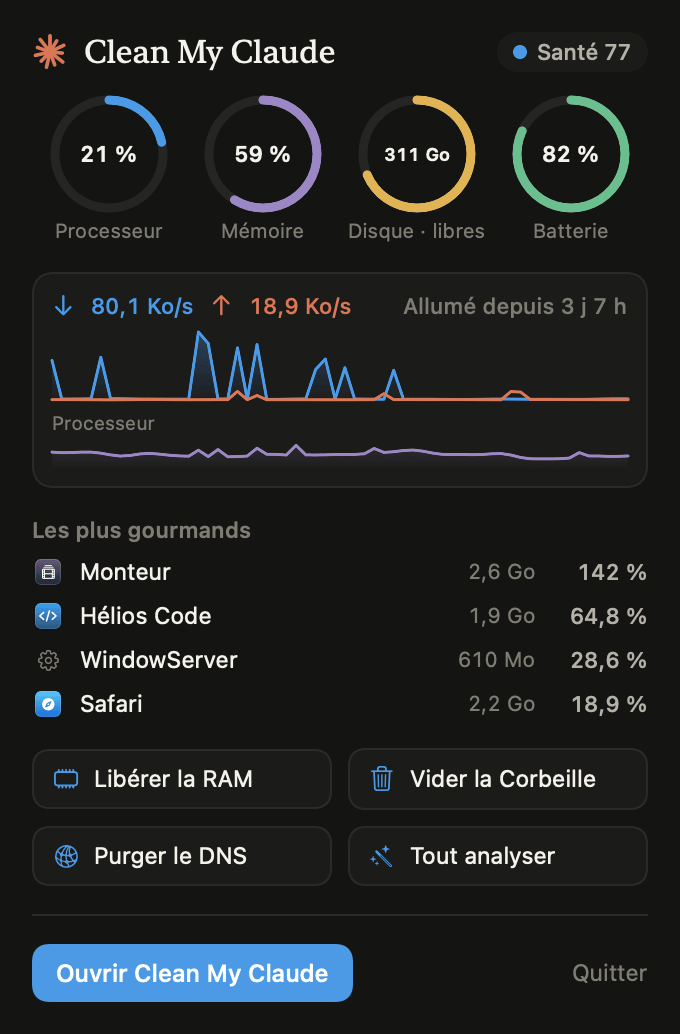
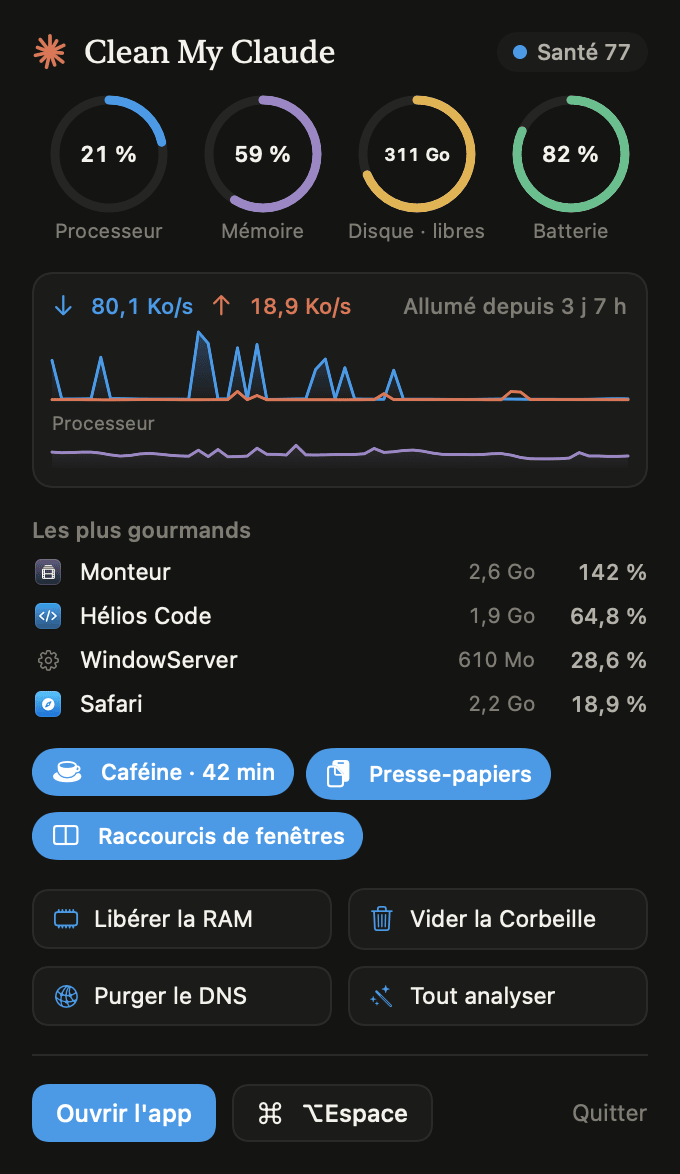
README réécrit pour la 0.2 et captures des nouvelles sections

diff --git a/README.md b/README.md
@@ -4,15 +4,24 @@
 
 <h1 align="center">Clean My Claude</h1>
 
-<p align="center"><b>« Claude, nettoie mon Mac. »</b><br>
-Un utilitaire d'entretien natif pour macOS, dans l'esprit de CleanMyMac, construit avec Claude.<br>
-Libre, gratuit, et tout se passe en local.</p>
+<p align="center"><b>« Claude, nettoie mon Mac. » Et tant qu'à faire, tout le reste.</b><br>
+L'app Mac tout-en-un, native et sans dépendance : entretien façon CleanMyMac, lanceur façon Raycast,<br>
+convertisseur de fichiers, outils du quotidien, mises à jour, réseau, fenêtres, automatisations et un assistant Claude.<br>
+Libre, gratuite, et rien ne sort de ton Mac sans ton clic.</p>
 
 <p align="center">
-  <img src="docs/screenshots/dashboard.png" alt="Tableau de bord : score de santé, stockage, mémoire, processeur, batterie, résultats de l'analyse intelligente, activité en direct et conseils" width="900">
+  <img src="docs/screenshots/dashboard.png" alt="Tableau de bord : score de santé, stockage, mémoire, processeur, batterie, analyse intelligente, activité en direct, conseils et état de chaque outil" width="900">
 </p>
 
 <table>
+  <tr>
+    <th>Lanceur (⌥Espace)</th>
+    <th>Convertisseur</th>
+  </tr>
+  <tr>
+    <td valign="top" align="center"><img src="docs/screenshots/launcher-panel.png" alt="Lanceur : la recherche « pdf » propose les actions du convertisseur et un fichier de l'historique du presse-papiers"></td>
+    <td valign="top"><img src="docs/screenshots/converter.png" alt="Convertisseur : photos HEIC à convertir en JPEG sans localisation, vidéos en cours de compression"></td>
+  </tr>
   <tr>
     <th>Nettoyage du système</th>
     <th>Protection et confidentialité</th>
@@ -22,52 +31,115 @@ Libre, gratuit, et tout se passe en local.</p>
     <td valign="top"><img src="docs/screenshots/protection.png" alt="Protection : bilan de sécurité de macOS (FileVault, coupe-feu, Gatekeeper, SIP, mises à jour…)"></td>
   </tr>
   <tr>
+    <th>Mises à jour</th>
+    <th>Assistant Claude</th>
+  </tr>
+  <tr>
+    <td valign="top"><img src="docs/screenshots/updates.png" alt="Mises à jour : paquets Homebrew, apps Sparkle, App Store et macOS, avec le journal d'une mise à jour en direct"></td>
+    <td valign="top"><img src="docs/screenshots/assistant.png" alt="Assistant : Claude explique pourquoi le Mac rame et propose deux actions à exécuter d'un clic"></td>
+  </tr>
+  <tr>
+    <th>Boîte à outils</th>
+    <th>Presse-papiers</th>
+  </tr>
+  <tr>
+    <td valign="top"><img src="docs/screenshots/toolbox.png" alt="Boîte à outils : sélecteur de couleur avec formats HEX, RGB, HSL, SwiftUI et nuances"></td>
+    <td valign="top"><img src="docs/screenshots/clipboard.png" alt="Presse-papiers : historique de textes, images et fichiers avec épingles et recherche"></td>
+  </tr>
+  <tr>
+    <th>Réseau</th>
+    <th>Fenêtres</th>
+  </tr>
+  <tr>
+    <td valign="top"><img src="docs/screenshots/network.png" alt="Réseau : Wi-Fi, adresses, test de débit et latence"></td>
+    <td valign="top"><img src="docs/screenshots/windows.png" alt="Fenêtres : moitiés, quarts, tiers et écrans, chacun avec son raccourci modifiable"></td>
+  </tr>
+  <tr>
+    <th>Automatisations</th>
     <th>Applications</th>
-    <th>Espace de stockage</th>
   </tr>
   <tr>
+    <td valign="top"><img src="docs/screenshots/automation.png" alt="Automatisations : nettoyage planifié, purge de la Corbeille, rangement de Téléchargements et historique de santé"></td>
     <td valign="top"><img src="docs/screenshots/apps.png" alt="Applications : inventaire avec taille, version, dernière ouverture, apps Intel et apps de l'App Store"></td>
-    <td valign="top"><img src="docs/screenshots/storage.png" alt="Stockage : carte proportionnelle du dossier personnel et liste de son contenu"></td>
   </tr>
   <tr>
+    <th>Espace de stockage</th>
     <th>Optimisation</th>
-    <th>Menu d'état</th>
   </tr>
   <tr>
+    <td valign="top"><img src="docs/screenshots/storage.png" alt="Stockage : carte proportionnelle du dossier personnel et liste de son contenu"></td>
     <td valign="top"><img src="docs/screenshots/performance.png" alt="Optimisation : jauges du processeur et de la mémoire, courbes en direct et apps les plus gourmandes"></td>
-    <td valign="top" align="center"><img src="docs/screenshots/menubar-panel.png" alt="Menu d'état : panneau de la barre des menus avec processeur, mémoire, disque, batterie, réseau et actions express" width="300"></td>
+  </tr>
+  <tr>
+    <th colspan="2">Menu d'état</th>
+  </tr>
+  <tr>
+    <td colspan="2" align="center"><img src="docs/screenshots/menubar-panel.png" alt="Menu d'état : processeur, mémoire, disque, batterie, réseau, apps gourmandes, interrupteurs Caféine, presse-papiers et fenêtres, actions express" width="300"></td>
   </tr>
 </table>
 
-<sub>Captures réalisées avec des données fictives (mode `--demo`) : ni les apps, ni les fichiers, ni les processus montrés n'existent.</sub>
+<sub>Captures réalisées avec des données fictives (mode `--demo`) : ni les apps, ni les fichiers, ni les personnes montrés n'existent.</sub>
 
-> *English: a native macOS maintenance utility (cleanup, security audit, startup items, app uninstaller, disk map, live menu bar monitor). The interface is in French.*
+> *English: an all-in-one native macOS app: maintenance (cleanup, security audit, startup items, uninstaller, disk map), a Raycast-like launcher, a file converter, everyday tools, clipboard history, updates, network tools, window management, automations and a Claude assistant. The interface is in French.*
 
-> Projet personnel et non officiel, sans lien avec Anthropic ni avec MacPaw. « Claude » est une marque d'Anthropic, « CleanMyMac » une marque de MacPaw.
+> Projet personnel et non officiel, sans lien avec Anthropic, MacPaw ni Raycast. « Claude » est une marque d'Anthropic, « CleanMyMac » une marque de MacPaw.
 
 ## Ce que fait l'app
 
+### Entretien
+
 | Section | Contenu |
 | --- | --- |
-| **Tableau de bord** | Score de santé sur 100, stockage, mémoire, processeur, batterie (santé, cycles), activité en direct, **analyse intelligente** qui passe tout en revue en une minute, et des conseils classés par utilité |
+| **Tableau de bord** | Score de santé sur 100, stockage, mémoire, processeur, batterie (santé, cycles), activité en direct, **analyse intelligente** qui passe tout en revue en une minute, conseils classés par utilité, et l'état de chaque outil |
 | **Nettoyage du système** | Caches d'apps et de macOS, journaux, fichiers temporaires, Xcode (données dérivées, appareils, archives, simulateurs), caches npm / Yarn / pip / Homebrew / CocoaPods / Go / Cargo…, dépendances de **projets endormis** (`node_modules`, `.build`, `Pods`, `target`), caches de l'**app Claude** et journaux de **Claude Code**, caches des navigateurs et des apps Electron, Corbeille, pièces jointes Mail, installeurs oubliés, sauvegardes d'iPhone |
-| **Protection et confidentialité** | Bilan de sécurité (FileVault, coupe-feu, Gatekeeper, SIP, XProtect, mises à jour, verrouillage, partages), audit des **éléments persistants** avec vérification des signatures, liste des **autorisations** (caméra, micro, écran, disque…), effacement des **traces** (éléments récents, historique des téléchargements, vignettes, historique du Terminal, historique et cookies des navigateurs) |
-| **Optimisation** | Moniteur temps réel, apps les plus gourmandes (processus d'aide regroupés par app), éléments au démarrage activables / désactivables, tâches de maintenance (mémoire, DNS, Launch Services, Spotlight, instantanés Time Machine…) |
+| **Protection et confidentialité** | Bilan de sécurité (FileVault, coupe-feu, Gatekeeper, SIP, XProtect, mises à jour, verrouillage, partages), audit des **éléments persistants** avec vérification des signatures, liste des **autorisations** (caméra, micro, écran, disque…), effacement des **traces** (éléments récents, téléchargements, vignettes, Terminal, historique et cookies des navigateurs) |
+| **Optimisation** | Moniteur temps réel, apps les plus gourmandes (processus d'aide regroupés par app), éléments au démarrage activables ou désactivables, tâches de maintenance (mémoire, DNS, Launch Services, Spotlight, instantanés Time Machine…) |
+| **Mises à jour** | **Homebrew** en un clic (sortie en direct, annulable ; les paquets qui demandent un mot de passe sont signalés avec la commande à copier), apps **Sparkle** (lecture de leur flux, l'app s'installe elle-même), **App Store** et **macOS** |
 | **Applications** | Inventaire avec taille, version, dernière ouverture, apps **Intel** qui passent par Rosetta, désinstallation **complète** (l'app et tous ses fichiers dans `~/Library`), restes d'apps déjà supprimées |
 | **Espace de stockage** | Carte proportionnelle cliquable de n'importe quel dossier, gros fichiers anciens, **doublons** (comparaison du contenu par SHA-256) |
-| **Menu d'état** | Dans la barre des menus : processeur, mémoire, disque, réseau, batterie, apps gourmandes et actions express. Alertes optionnelles si le disque est presque plein ou la mémoire saturée |
+
+### Outils
+
+| Section | Contenu |
+| --- | --- |
+| **Lanceur** | `⌥Espace` partout, comme Spotlight ou Raycast : apps classées par fréquence, fichiers, **calculatrice** (virgule française acceptée), **unités** (`10 km en miles`, `5 Go en Mo`, `100 °F en °C`), heure dans le monde, veille, verrouillage, mode sombre, éjection des disques, `quitter Slack`, recherche web (`g`, `ddg`, `yt`, `gh`, `wiki`, `maps`, `trad`), réglages système, emoji, et **toutes les actions de l'app** (`caféine 1h`, `mdp 24`, `#ff8800`, `qr …`, `cb …`, `gauche`, `? une question pour Claude`…) |
+| **Convertisseur** | Glisser-déposer, lanceur, Dock ou clic droit dans le Finder (**Services › Convertir avec Clean My Claude**). Images (HEIC, JPEG, PNG, AVIF, TIFF, GIF, BMP, PDF, JPEG 2000 ; redimensionner, compresser, **retirer le GPS** sans recompresser), vidéo (H.264, HEVC, MOV ↔ MP4 sans réencodage, **vidéo → GIF**, extraction de l'audio), audio (AAC, ALAC, WAV, AIFF, FLAC), PDF (fusionner, découper, pivoter, alléger, images ↔ PDF), documents (Word, RTF, HTML, TXT, ODT, Markdown → HTML ou PDF), ZIP, **renommage par lot** avec aperçu, **OCR** en français et en anglais, QR codes. MP3, OGG, MKV ou WebM si `ffmpeg` est installé |
+| **Boîte à outils** | Pipette et conversions de couleurs, mots de passe et phrases de passe (copie confidentielle effacée au bout de 90 s), empreintes SHA et MD5 de fichiers, Base64, URL, JSON, casse, compteur de mots, Lorem ipsum, UUID, horodatages, et **Caféine** pour empêcher la veille (aussi depuis le menu d'état) |
+| **Presse-papiers** | Historique des textes, images et fichiers copiés, épingles, recherche, rappel depuis le lanceur (`cb …`). **Désactivé tant que tu ne l'actives pas**, il ignore les mots de passe et ce qui est copié depuis un gestionnaire de mots de passe |
+| **Réseau** | Wi-Fi (signal, bruit, canal, débit), adresses locales et publique, **test de débit** (`networkQuality` d'Apple), latence en direct, **ports ouverts** et l'app qui les écoute |
+
+### Contrôle et Claude
+
+| Section | Contenu |
+| --- | --- |
+| **Fenêtres** | Moitiés, tiers, deux tiers, quarts, plein écran, centrer, écran suivant ou précédent, taille précédente, au clavier (`⌃⌥` + flèches…) ou depuis le lanceur. Appuyer de nouveau fait défiler ½, ⅔ et ⅓. Raccourcis modifiables, marge réglable |
+| **Automatisations** | Nettoyage planifié (seulement le « sans risque »), purge de la Corbeille au-delà de N jours, **rangement de Téléchargements** par règles, historique de santé du Mac en graphiques, journal. Tout est désactivé au départ et chaque automatisation montre un **aperçu à blanc** avant de s'activer. Elles tournent tant que l'app est ouverte (fenêtre fermée comprise) |
+| **Assistant Claude** | Pose tes questions sur ton Mac en langage naturel : Claude explique et propose jusqu'à trois actions de l'app, que tu lances d'un clic. « Demander à Claude » est aussi dans le clic droit d'un processus, d'un agent de démarrage ou d'un dossier, et dans le lanceur (`?`) |
+| **Menu d'état** | Dans la barre des menus : processeur, mémoire, disque, réseau, batterie, apps gourmandes, interrupteurs (Caféine, presse-papiers, fenêtres) et actions express. Alertes optionnelles si le disque est presque plein ou la mémoire saturée |
 
 ## Les garde-fous
 
 Un nettoyeur qui supprime trop, c'est pire que pas de nettoyeur. Clean My Claude est prudent par construction :
 
 - **Rien n'est supprimé sans ton accord.** Les analyses sont en lecture seule ; chaque nettoyage passe par une confirmation qui dit ce qui part et comment.
-- **Une seule porte de sortie.** Toutes les suppressions de fichiers passent par `Remover`, qui refuse tout ce qui n'est pas dans ton dossier personnel (et `~/Library` lui-même, les trousseaux, Mail, Messages, iCloud Drive, Photos…). `CleanMyClaude --selftest` vérifie ces règles et que le catalogue ne propose jamais un chemin protégé ; le script de build le lance à chaque compilation.
-- **La Corbeille d'abord.** Seuls les caches et journaux que les apps recréent sont supprimés directement. Tes fichiers, les apps désinstallées, les doublons partent dans la Corbeille. Un réglage permet de tout y envoyer.
+- **Une seule porte de sortie.** Toutes les suppressions passent par `Remover`, qui refuse tout ce qui n'est pas dans ton dossier personnel (et `~/Library` lui-même, les trousseaux, Mail, Messages, iCloud Drive, Photos…). `CleanMyClaude --selftest` vérifie ces règles et que le catalogue ne propose jamais un chemin protégé ; le script de build le lance à chaque compilation.
+- **La Corbeille d'abord.** Seuls les caches et journaux que les apps recréent sont supprimés directement. Tes fichiers, les apps désinstallées, les doublons partent dans la Corbeille.
+- **Jamais d'écrasement.** Conversions, renommages et rangements écrivent toujours un nouveau fichier (`photo 2.jpg` si `photo.jpg` existe) ; tes originaux ne bougent pas.
+- **Une seule porte de confirmation.** Les commandes risquées du lanceur, des liens `cleanmyclaude://` ou de l'assistant demandent toujours ton accord ; Claude ne peut proposer que des actions sans danger.
 - **Les apps ouvertes sont respectées.** Les caches de Claude, Chrome, Slack… sont verrouillés tant que l'app tourne.
-- **Rien n'est coché d'office** dans les fichiers personnels, les restes d'apps ou les doublons.
 - **Un journal** de chaque action : `~/Library/Logs/CleanMyClaude/actions.log`.
-- **Aucune connexion réseau.** Seule la recherche de mises à jour macOS (`softwareupdate -l`) interroge Apple.
+
+### Rien ne sort sans ton clic
+
+Tes fichiers, ton historique de presse-papiers et l'état de ton Mac restent sur ton Mac. Les seules connexions partent quand tu cliques, et chacune dit ce qu'elle fait :
+
+| Quand | Vers qui | Quoi |
+| --- | --- | --- |
+| « Vérifier » dans Mises à jour, bilan de sécurité | Apple (`softwareupdate`, `itunes.apple.com/lookup`), les flux Sparkle de tes apps, Homebrew | Les noms et versions de tes apps |
+| « Lancer le test » dans Réseau | Apple (`networkQuality`) | Un test de débit |
+| « Afficher » l'IP publique | `api.ipify.org` | Aucune donnée : il te renvoie ton adresse |
+| Une question à l'assistant | Anthropic, via ton abonnement Claude ou ta clé API | Ta question ; l'état du Mac (charge, espace, apps gourmandes) seulement si tu actives « Consulter l'état du Mac » |
+| Une recherche web dans le lanceur | Ton navigateur | Ce que tu as tapé, comme dans la barre d'adresse |
 
 ## Installation
 
@@ -81,15 +153,22 @@ cd CleanMyClaude
 
 Le script compile en release, vérifie les garde-fous, génère l'icône, assemble `Clean My Claude.app` et l'installe dans `~/Applications` (`--no-install` la laisse dans `build/`, `--zip` produit une archive).
 
-### L'accès complet au disque
+### Les autorisations
 
-macOS cache certains dossiers aux apps (Corbeille, Mail, Safari, bases d'autorisations). Pour que Clean My Claude les voie : **Réglages Système › Confidentialité et sécurité › Accès complet au disque**, puis active Clean My Claude. Sans cet accès, l'app fonctionne quand même et signale ce qu'elle ne peut pas voir.
+Aucune n'est obligatoire : chacune est demandée dans la section qui en a besoin, au moment où tu t'en sers, avec une explication.
 
-L'app est signée localement (signature « ad hoc ») : après une recompilation, macOS peut la considérer comme nouvelle et il faut réactiver l'accès.
+| Autorisation | Pour quoi faire |
+| --- | --- |
+| **Accès complet au disque** (recommandé) | Voir la Corbeille, Mail, Safari et la liste des autorisations de tes apps. Réglages Système › Confidentialité et sécurité › Accès complet au disque |
+| **Accessibilité** | Ranger les fenêtres au clavier, coller directement depuis l'historique du presse-papiers |
+| **Localisation** | Afficher le nom du réseau Wi-Fi (macOS le cache sans elle) |
+| **Notifications** | Alertes de disque ou de mémoire, bilan des automatisations |
+
+L'app est signée localement (signature « ad hoc ») : après une recompilation, macOS peut la considérer comme nouvelle et il faut réactiver ces autorisations.
 
 ### Garder les autorisations entre deux compilations
 
-Pour que macOS se souvienne des autorisations (accès complet au disque, Accessibilité…) même après avoir recompilé, signe l'app avec un certificat local stable, une fois pour toutes :
+Pour que macOS s'en souvienne même après avoir recompilé, signe l'app avec un certificat local stable, une fois pour toutes :
 
 1. Ouvre **Trousseau d'accès › Assistant de certification › Créer un certificat…**
 2. Nom : `Clean My Claude Dev`, type d'identité : **Racine auto-signée**, type de certificat : **Signature de code**, puis Créer.
@@ -98,6 +177,15 @@ Pour que macOS se souvienne des autorisations (accès complet au disque, Accessi
 ```bash
 CMC_SIGN_IDENTITY="Clean My Claude Dev" ./scripts/build_app.sh
 ```
+
+### Connecter l'assistant Claude
+
+Deux possibilités, au choix dans la section **Assistant Claude** :
+
+- **Ton abonnement Claude (Pro ou Max), sans clé API.** L'assistant passe par Claude Code, livré avec l'[app Claude](https://claude.ai/download). Clique sur « Connecter Claude » : un Terminal s'ouvre, tu valides dans le navigateur, c'est fait. Claude Code y tourne bridé : aucun outil, aucun accès à tes fichiers, aucune session conservée, une réponse au format imposé. Les messages comptent dans ton quota d'abonnement.
+- **Une clé API Anthropic**, rangée dans ton Trousseau, facturée à l'usage (coût affiché après chaque réponse).
+
+Modèles proposés : Opus (par défaut), Sonnet, Haiku et Fable.
 
 ### Piloter l'app depuis Raccourcis, Raycast ou le Terminal
 
@@ -111,44 +199,49 @@ open "cleanmyclaude://run/act_smart_scan"       # lance une commande du lanceur 
 
 ```bash
 swift build
+.build/debug/CleanMyClaude --selftest             # garde-fous de suppression et autotests de chaque module
 .build/debug/CleanMyClaude --dump                 # ce que trouve chaque scanner, sans rien supprimer
-.build/debug/CleanMyClaude --dump --only cleanup  # cleanup | security | apps | processes
+.build/debug/CleanMyClaude --dump --only cleanup  # cleanup | security | apps | processes, ou le nom d'un module
 .build/debug/CleanMyClaude --dump --storage ~/Developer --duplicates ~/Downloads
-.build/debug/CleanMyClaude --selftest             # garde-fous de suppression
 .build/debug/CleanMyClaude --snapshot out/        # rend chaque page en PNG (--page, --tab, --light, --scale 2)
+.build/debug/CleanMyClaude --ask "Pourquoi mon Mac chauffe ?" --model haiku   # une question à l'assistant
 .build/debug/CleanMyClaude --demo                 # lance l'app avec des données fictives, sans lire le disque
 ```
 
-`--demo` fonctionne aussi avec `--dump` et `--snapshot`. Les données de démonstration (`App/DemoData.swift`) décrivent un Mac inventé : un dossier personnel fictif, 25 apps aux noms et icônes inventés, leurs caches, processus, agents de démarrage et autorisations, un disque d'un téraoctet. Les dates sont relatives au lancement et les courbes en direct sortent d'une graine fixe : deux rendus du même jour sont identiques. En mode démo, aucun scanner ne lit le disque, aucune commande n'est lancée et `Remover` refuse toute suppression ; `--selftest --demo` le vérifie sur un fichier témoin. Les captures de ce README en sortent :
+`--demo` fonctionne aussi avec `--dump` et `--snapshot`. Les données de démonstration décrivent un Mac inventé : un dossier personnel fictif, des apps aux noms et icônes inventés, leurs caches, processus, agents de démarrage, mises à jour, conversions et historique de presse-papiers. En mode démo, aucun scanner ne lit le disque, aucune commande ni requête n'est lancée et `Remover` refuse toute suppression ; `--selftest --demo` le vérifie sur un fichier témoin. Les captures de ce README en sortent :
 
 ```bash
-for p in dashboard cleanup protection performance apps storage menubar; do
+for p in dashboard cleanup protection performance apps storage menubar updates converter toolbox clipboard network windows automation assistant; do
   .build/debug/CleanMyClaude --snapshot docs/screenshots --demo --scale 2 --page $p
 done
-rm docs/screenshots/menubar.png                                      # seul le panneau (menubar-panel.png) sert ici
+.build/debug/CleanMyClaude --snapshot docs/screenshots --demo --scale 2 --page launcher --query pdf
+rm docs/screenshots/menubar.png docs/screenshots/launcher.png docs/screenshots/onboarding-panel.png
 pngquant --quality 80-95 --force --ext .png docs/screenshots/*.png   # optionnel : divise le poids par quatre
 ```
 
-Pendant `--snapshot`, les menus, champs de texte, interrupteurs et zones de défilement d'AppKit sont remplacés par des équivalents dessinés en SwiftUI : `ImageRenderer` les rendrait en rectangles jaunes ou vides.
+Pendant `--snapshot`, les menus, champs de texte, interrupteurs, zones de dépôt et de défilement d'AppKit sont remplacés par des équivalents dessinés en SwiftUI : `ImageRenderer` les rendrait en rectangles jaunes ou vides.
 
 Le code, en SwiftUI pur, sans dépendance :
 
 ```
 Sources/CleanMyClaude/
-├── App/        point d'entrée, scènes (fenêtre, barre des menus, réglages), modèle global, outils CLI
-├── Core/       mesures système (CPU, mémoire, réseau, batterie), tailles via fts(3), shell, suppression sécurisée
-├── Features/   une section par dossier : Dashboard, Cleanup, Protection, Performance, Apps, Storage, MenuBar
+├── App/        point d'entrée, scènes, modèle global, registre des modules, outils en ligne de commande
+├── Core/       mesures système, tailles via fts(3), Shell, Remover, FileOps, HTTP, commandes du lanceur,
+│               raccourcis globaux, panneaux flottants, stockage, Trousseau, notifications, planificateur
+├── Features/   une section par dossier : Dashboard, Cleanup, Protection, Performance, Updates, Apps, Storage,
+│               Launcher, Converter, Toolbox, Clipboard, Network, Windows, Automation, Assistant, MenuBar
 └── UI/         thème et composants partagés avec ClaudeStats
 ```
+
+Chaque module de `Features/` se branche sur `App/ModuleRegistry.swift` (commandes du lanceur, données de démo, autotests, captures, interrupteurs du menu d'état). Les règles pour en écrire un sont dans [`CLAUDE.md`](CLAUDE.md).
 
 Le design reprend celui de [ClaudeStats](https://github.com/Olima34/ClaudeStats) : surfaces chaudes, titres en serif, accent bleu, étincelle et créature de Claude.
 
 ## Feuille de route
 
-- « Demande à Claude » : expliquer un processus, un agent ou un dossier inconnu via l'API Claude (clé fournie par l'utilisateur)
-- Mises à jour des apps (Homebrew, Sparkle, App Store)
-- Nettoyage planifié et rappels
+- Automatisations même quand l'app est fermée (agent de connexion)
 - Vue en rayons de soleil pour la carte du disque
+- Application signée et notarisée à télécharger, avec mises à jour automatiques
 - Localisation en anglais
 
 ## Licence
